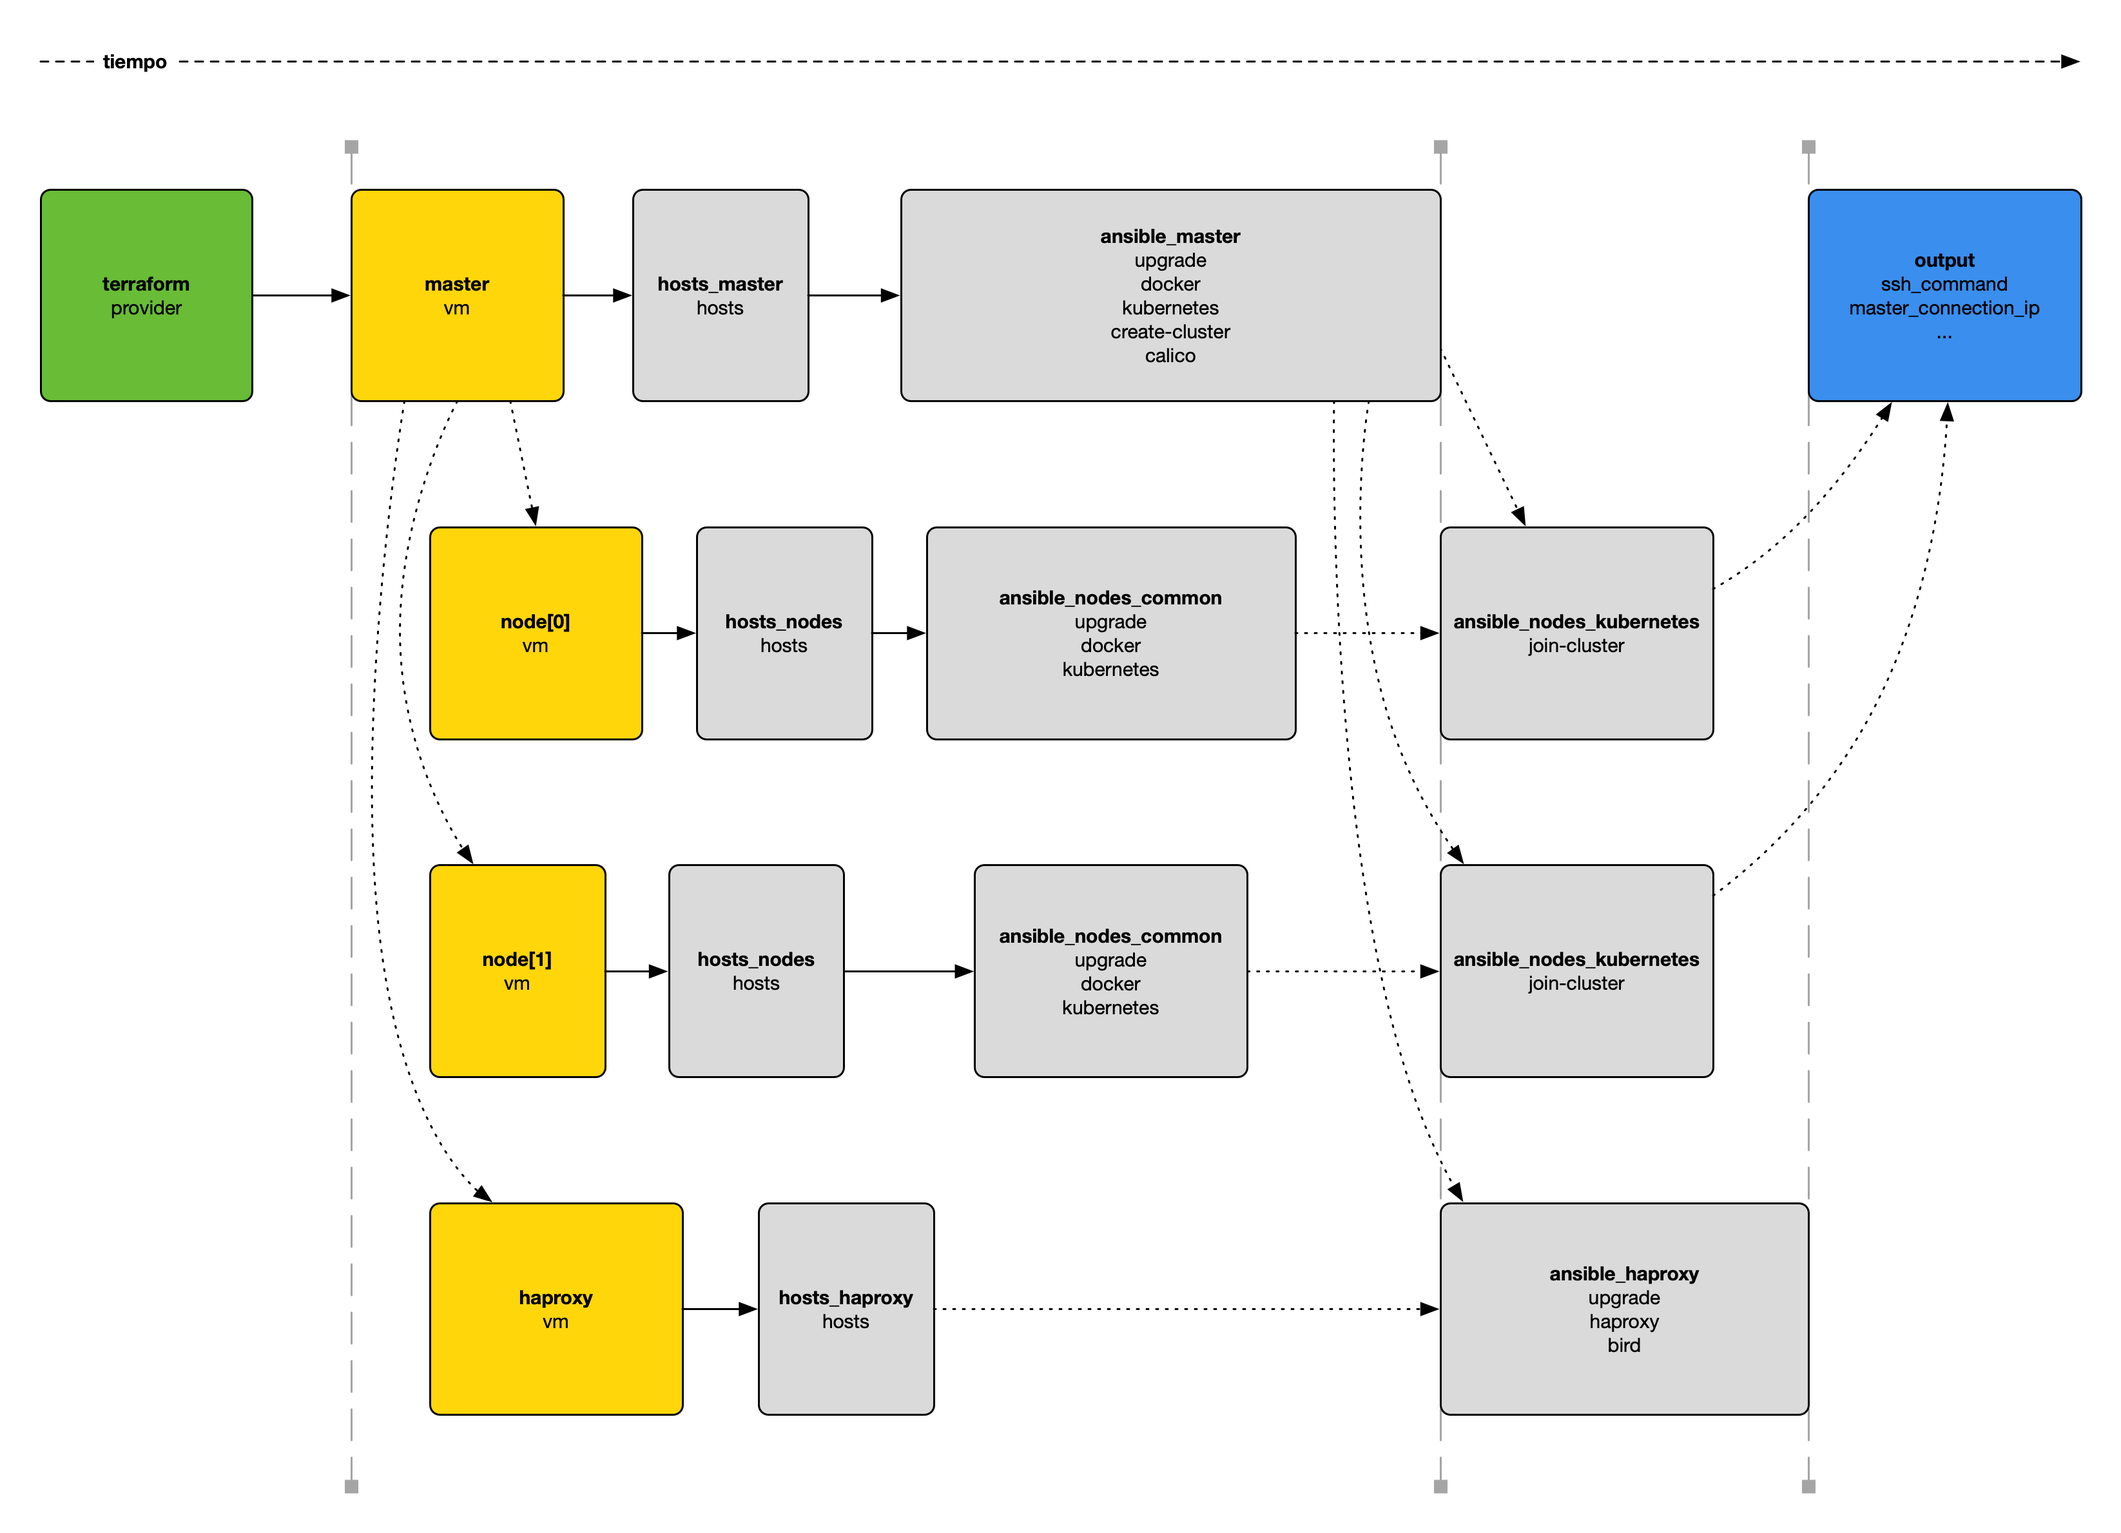
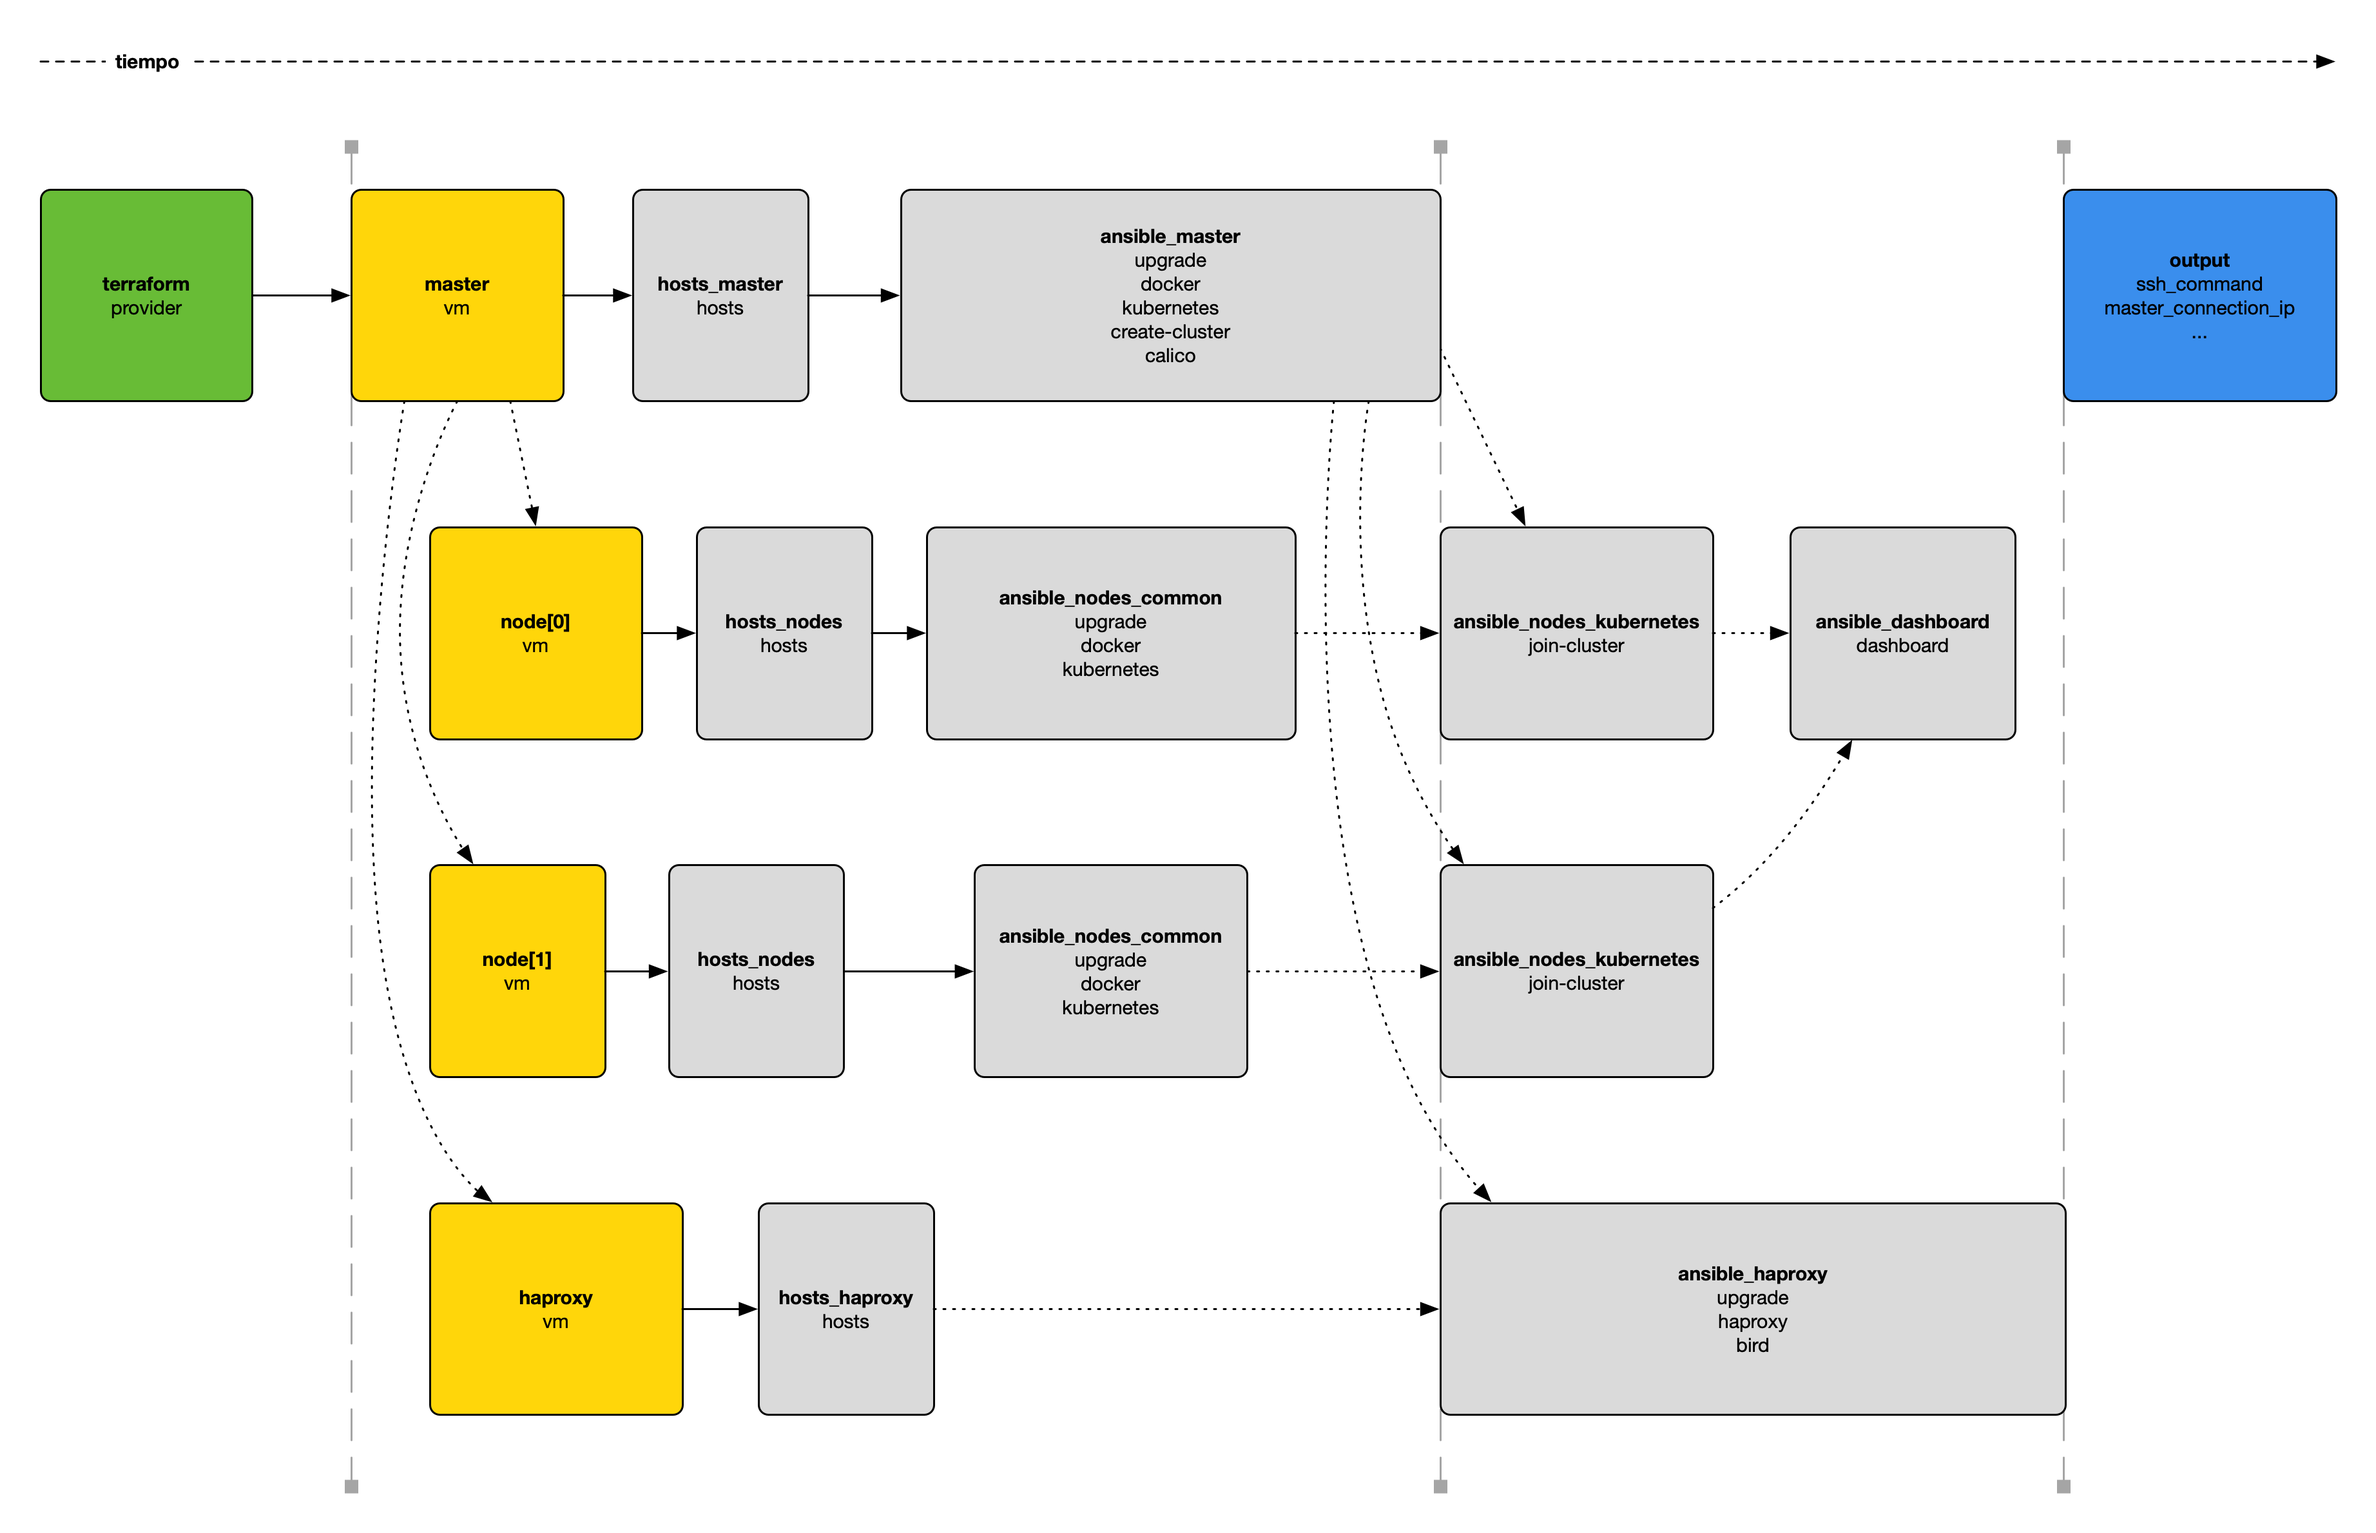
Instalar el Dashboard

diff --git a/README.md b/README.md
@@ -30,6 +30,31 @@ y [Ansible](https://www.ansible.com) en [OpenNebula](https://opennebula.io).
     make ssh
     ```
 
+## Acceso al Dashboard
+
+Obtener el token temporal de acceso:
+
+```shell
+make token
+```
+
+Acceder al Dashboard con la IP de cualquiera de los nodos del cluster, en el puerto 32000 y por HTTPS. Por ejemplo:
+
+https://172.20.227.242:32000
+
+### Redirección mediante la IP pública
+
+Si solo tenemos acceso al cluster mediante la IP pública del master, podemos crear un túnel SSH al puerto del Dashboard
+haciendo:
+
+```
+ssh -L 9999:127.0.0.1:32000 -N -f -l root $(docker compose run --rm terraform-ansible terraform -chdir=/terraform output -raw master_connection_ip)
+```
+
+Y acceder a:
+
+https://localhost:9999
+
 ## Timeline de creación del cluster
 
 ![](docs/orden_creacion_kubernetes.png)
